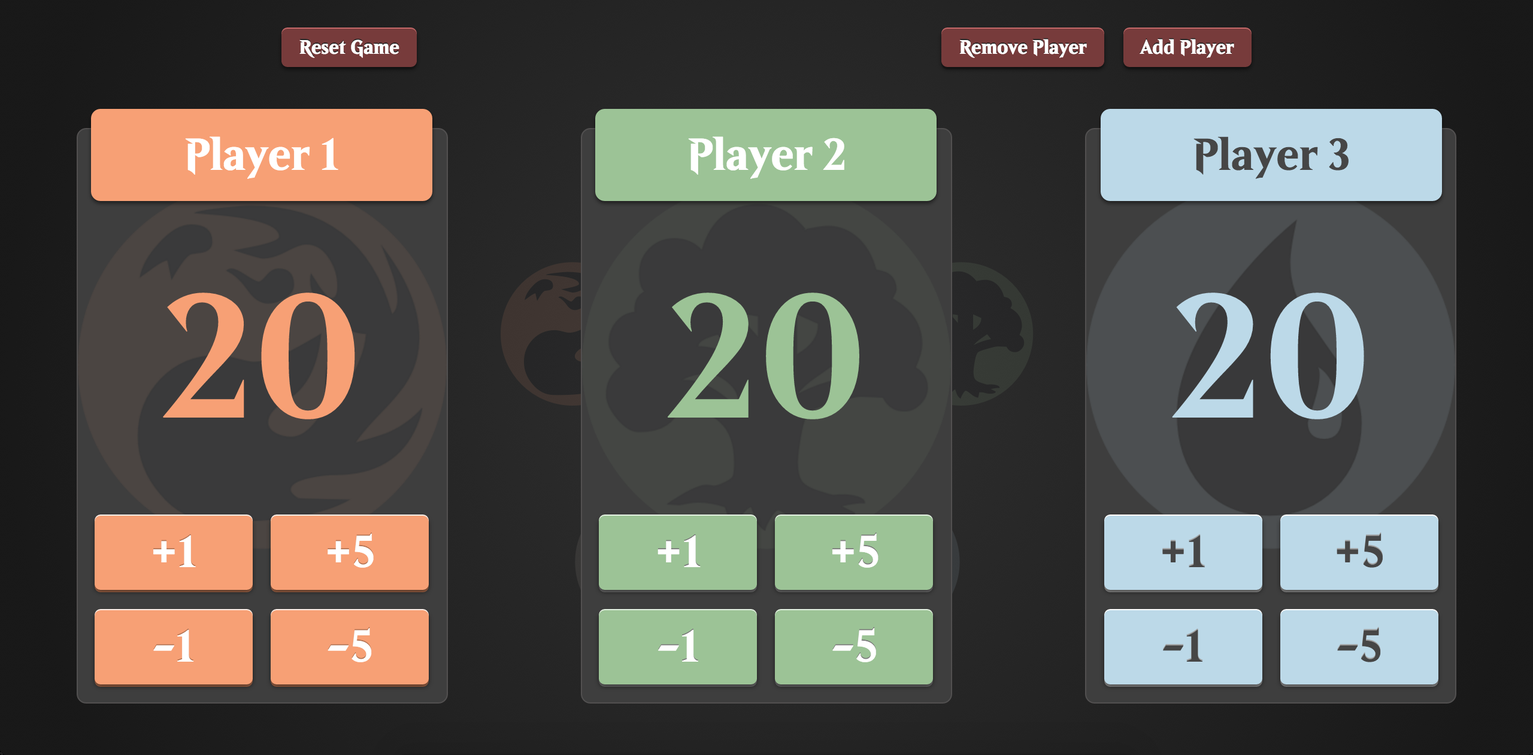
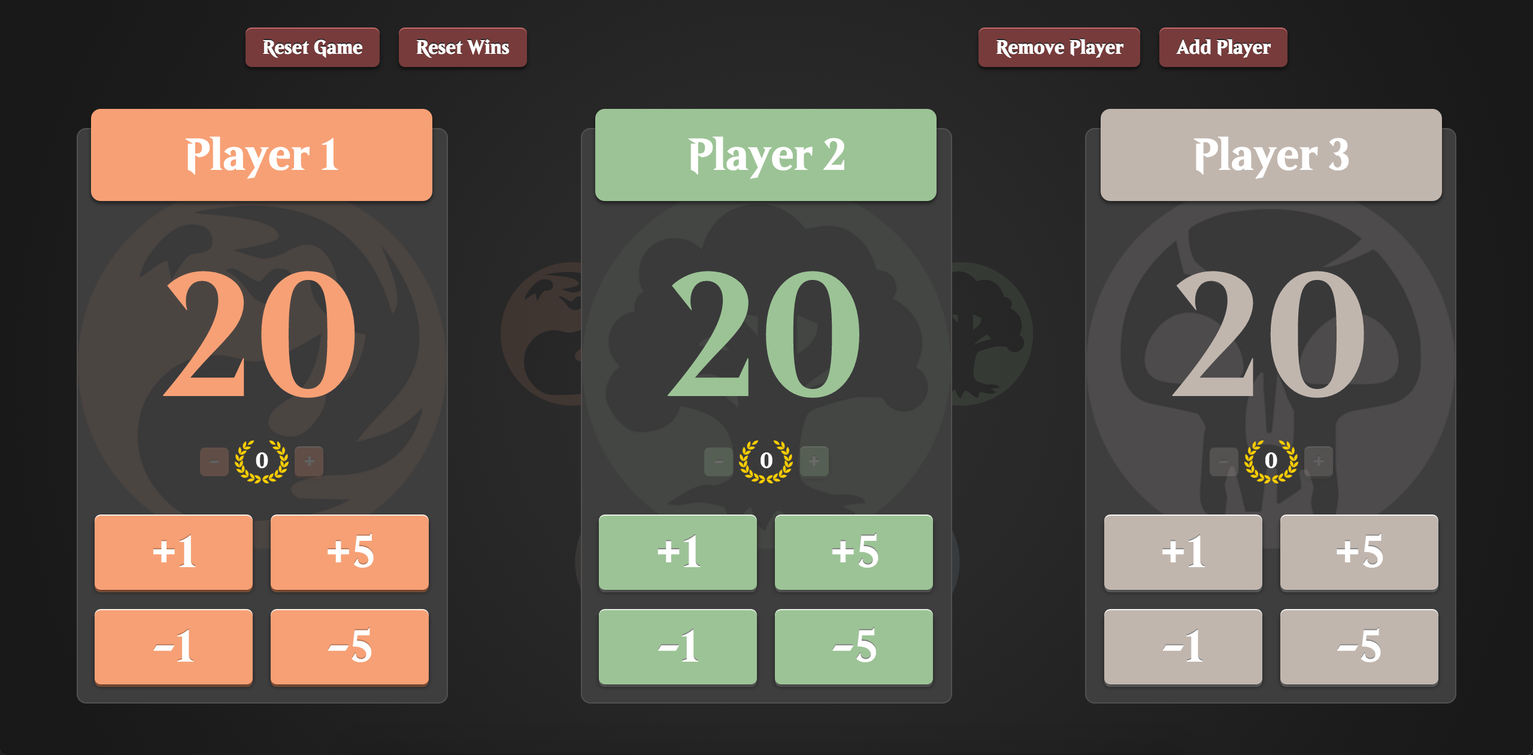
Add wins counter

diff --git a/build/js/app.js b/build/js/app.js
@@ -11838,19 +11838,21 @@ Elm.MTG.make = function (_elm) {
    function (v) {
       return v === null ? Elm.Maybe.make(_elm).Nothing : Elm.Maybe.make(_elm).Just(typeof v === "object" && "players" in v && "activePlayers" in v ? {_: {}
                                                                                                                                                      ,players: typeof v.players === "object" && v.players instanceof Array ? Elm.Native.List.make(_elm).fromArray(v.players.map(function (v) {
-                                                                                                                                                        return typeof v === "object" && "id" in v && "name" in v && "color" in v && "life" in v && "edit" in v && "nameEdit" in v ? {_: {}
-                                                                                                                                                                                                                                                                                    ,id: typeof v.id === "number" && isFinite(v.id) && Math.floor(v.id) === v.id ? v.id : _U.badPort("an integer",
-                                                                                                                                                                                                                                                                                    v.id)
-                                                                                                                                                                                                                                                                                    ,name: typeof v.name === "string" || typeof v.name === "object" && v.name instanceof String ? v.name : _U.badPort("a string",
-                                                                                                                                                                                                                                                                                    v.name)
-                                                                                                                                                                                                                                                                                    ,color: typeof v.color === "string" || typeof v.color === "object" && v.color instanceof String ? v.color : _U.badPort("a string",
-                                                                                                                                                                                                                                                                                    v.color)
-                                                                                                                                                                                                                                                                                    ,life: typeof v.life === "number" && isFinite(v.life) && Math.floor(v.life) === v.life ? v.life : _U.badPort("an integer",
-                                                                                                                                                                                                                                                                                    v.life)
-                                                                                                                                                                                                                                                                                    ,edit: typeof v.edit === "boolean" ? v.edit : _U.badPort("a boolean (true or false)",
-                                                                                                                                                                                                                                                                                    v.edit)
-                                                                                                                                                                                                                                                                                    ,nameEdit: typeof v.nameEdit === "string" || typeof v.nameEdit === "object" && v.nameEdit instanceof String ? v.nameEdit : _U.badPort("a string",
-                                                                                                                                                                                                                                                                                    v.nameEdit)} : _U.badPort("an object with fields `id`, `name`, `color`, `life`, `edit`, `nameEdit`",
+                                                                                                                                                        return typeof v === "object" && "id" in v && "name" in v && "color" in v && "life" in v && "edit" in v && "nameEdit" in v && "wins" in v ? {_: {}
+                                                                                                                                                                                                                                                                                                   ,id: typeof v.id === "number" && isFinite(v.id) && Math.floor(v.id) === v.id ? v.id : _U.badPort("an integer",
+                                                                                                                                                                                                                                                                                                   v.id)
+                                                                                                                                                                                                                                                                                                   ,name: typeof v.name === "string" || typeof v.name === "object" && v.name instanceof String ? v.name : _U.badPort("a string",
+                                                                                                                                                                                                                                                                                                   v.name)
+                                                                                                                                                                                                                                                                                                   ,color: typeof v.color === "string" || typeof v.color === "object" && v.color instanceof String ? v.color : _U.badPort("a string",
+                                                                                                                                                                                                                                                                                                   v.color)
+                                                                                                                                                                                                                                                                                                   ,life: typeof v.life === "number" && isFinite(v.life) && Math.floor(v.life) === v.life ? v.life : _U.badPort("an integer",
+                                                                                                                                                                                                                                                                                                   v.life)
+                                                                                                                                                                                                                                                                                                   ,edit: typeof v.edit === "boolean" ? v.edit : _U.badPort("a boolean (true or false)",
+                                                                                                                                                                                                                                                                                                   v.edit)
+                                                                                                                                                                                                                                                                                                   ,nameEdit: typeof v.nameEdit === "string" || typeof v.nameEdit === "object" && v.nameEdit instanceof String ? v.nameEdit : _U.badPort("a string",
+                                                                                                                                                                                                                                                                                                   v.nameEdit)
+                                                                                                                                                                                                                                                                                                   ,wins: typeof v.wins === "number" && isFinite(v.wins) && Math.floor(v.wins) === v.wins ? v.wins : _U.badPort("an integer",
+                                                                                                                                                                                                                                                                                                   v.wins)} : _U.badPort("an object with fields `id`, `name`, `color`, `life`, `edit`, `nameEdit`, `wins`",
                                                                                                                                                         v);
                                                                                                                                                      })) : _U.badPort("an array",
                                                                                                                                                      v.players)
@@ -11864,7 +11866,8 @@ Elm.MTG.make = function (_elm) {
              ,color: color
              ,life: 20
              ,edit: false
-             ,nameEdit: name};
+             ,nameEdit: name
+             ,wins: 0};
    });
    var initialModel = {players: _U.list([A3(newPlayer,
                                         1,
@@ -11924,6 +11927,14 @@ Elm.MTG.make = function (_elm) {
                                   },
                                   model.players)})
                                   ,_1: $Effects.none};
+         case "ResetWins": return {ctor: "_Tuple2"
+                                  ,_0: _U.update(model,
+                                  {players: A2($List.map,
+                                  function (player) {
+                                     return _U.update(player,{wins: 0});
+                                  },
+                                  model.players)})
+                                  ,_1: $Effects.none};
          case "IncreasePlayers": return _U.cmp(model.activePlayers,
            5) < 0 ? {ctor: "_Tuple2"
                     ,_0: _U.update(model,{activePlayers: model.activePlayers + 1})
@@ -11968,7 +11979,7 @@ Elm.MTG.make = function (_elm) {
                   ,_0: _U.update(model,
                   {players: A2($List.map,editPlayer,model.players)})
                   ,_1: $Effects.none};
-         default: var setName = function (player) {
+         case "SaveNameInput": var setName = function (player) {
               return _U.eq(player.id,_p3._0) && !_U.eq(player.nameEdit,
               "") ? _U.update(player,
               {name: player.nameEdit,edit: false}) : player;
@@ -11976,6 +11987,22 @@ Elm.MTG.make = function (_elm) {
            return {ctor: "_Tuple2"
                   ,_0: _U.update(model,
                   {players: A2($List.map,setName,model.players)})
+                  ,_1: $Effects.none};
+         case "IncreaseWins": var addWin = function (player) {
+              return _U.eq(player.id,_p3._0) ? _U.update(player,
+              {wins: player.wins + 1}) : player;
+           };
+           return {ctor: "_Tuple2"
+                  ,_0: _U.update(model,
+                  {players: A2($List.map,addWin,model.players)})
+                  ,_1: $Effects.none};
+         default: var removeWin = function (player) {
+              return _U.eq(player.id,_p3._0) && _U.cmp(player.wins,
+              0) > 0 ? _U.update(player,{wins: player.wins - 1}) : player;
+           };
+           return {ctor: "_Tuple2"
+                  ,_0: _U.update(model,
+                  {players: A2($List.map,removeWin,model.players)})
                   ,_1: $Effects.none};}
    });
    var is13 = function (code) {
@@ -11998,6 +12025,12 @@ Elm.MTG.make = function (_elm) {
          return A2($Signal.message,address,f(v));
       });
    });
+   var DecreaseWins = function (a) {
+      return {ctor: "DecreaseWins",_0: a};
+   };
+   var IncreaseWins = function (a) {
+      return {ctor: "IncreaseWins",_0: a};
+   };
    var SaveNameInput = function (a) {
       return {ctor: "SaveNameInput",_0: a};
    };
@@ -12053,6 +12086,20 @@ Elm.MTG.make = function (_elm) {
               _U.list([$Html$Attributes.$class("life")]),
               _U.list([$Html.text($Basics.toString(player.life))]))]))
               ,A2($Html.div,
+              _U.list([$Html$Attributes.$class("wins-container")]),
+              _U.list([A2($Html.button,
+                      _U.list([$Html$Attributes.$class("minus-win")
+                              ,A2($Html$Events.onClick,address,DecreaseWins(player.id))
+                              ,$Html$Attributes.disabled(_U.cmp(player.wins,1) < 0)]),
+                      _U.list([$Html.text("-")]))
+                      ,A2($Html.div,
+                      _U.list([$Html$Attributes.$class("wins")]),
+                      _U.list([$Html.text($Basics.toString(player.wins))]))
+                      ,A2($Html.button,
+                      _U.list([$Html$Attributes.$class("plus-win")
+                              ,A2($Html$Events.onClick,address,IncreaseWins(player.id))]),
+                      _U.list([$Html.text("+")]))]))
+              ,A2($Html.div,
               _U.list([$Html$Attributes.$class("options-container")]),
               _U.list([A2($Html.div,
                       _U.list([$Html$Attributes.$class("options-row")]),
@@ -12096,16 +12143,21 @@ Elm.MTG.make = function (_elm) {
    });
    var DecreasePlayers = {ctor: "DecreasePlayers"};
    var IncreasePlayers = {ctor: "IncreasePlayers"};
+   var ResetWins = {ctor: "ResetWins"};
    var ResetGame = {ctor: "ResetGame"};
    var gameOptionsContainer = F2(function (address,model) {
       return A2($Html.div,
       _U.list([$Html$Attributes.$class("game-options-container")]),
       _U.list([A2($Html.div,
-              _U.list([$Html$Attributes.$class("game-option")]),
+              _U.list([$Html$Attributes.$class("game-option option-group")]),
               _U.list([A2($Html.button,
-              _U.list([$Html$Attributes.$class("option-reset")
-                      ,A2($Html$Events.onClick,address,ResetGame)]),
-              _U.list([$Html.text("Reset Game")]))]))
+                      _U.list([$Html$Attributes.$class("option-reset-game")
+                              ,A2($Html$Events.onClick,address,ResetGame)]),
+                      _U.list([$Html.text("Reset Game")]))
+                      ,A2($Html.button,
+                      _U.list([$Html$Attributes.$class("option-reset-wins")
+                              ,A2($Html$Events.onClick,address,ResetWins)]),
+                      _U.list([$Html.text("Reset Wins")]))]))
               ,A2($Html.div,
               _U.list([$Html$Attributes.$class("game-option option-group")]),
               _U.list([A2($Html.button,
@@ -12139,7 +12191,8 @@ Elm.MTG.make = function (_elm) {
                        ,color: v.color
                        ,life: v.life
                        ,edit: v.edit
-                       ,nameEdit: v.nameEdit};
+                       ,nameEdit: v.nameEdit
+                       ,wins: v.wins};
              })
              ,activePlayers: v.activePlayers};
    },
@@ -12149,14 +12202,21 @@ Elm.MTG.make = function (_elm) {
    var Model = F2(function (a,b) {
       return {players: a,activePlayers: b};
    });
-   var Player = F6(function (a,b,c,d,e,f) {
-      return {id: a,name: b,color: c,life: d,edit: e,nameEdit: f};
+   var Player = F7(function (a,b,c,d,e,f,g) {
+      return {id: a
+             ,name: b
+             ,color: c
+             ,life: d
+             ,edit: e
+             ,nameEdit: f
+             ,wins: g};
    });
    return _elm.MTG.values = {_op: _op
                             ,Player: Player
                             ,Model: Model
                             ,NoOp: NoOp
                             ,ResetGame: ResetGame
+                            ,ResetWins: ResetWins
                             ,IncreasePlayers: IncreasePlayers
                             ,DecreasePlayers: DecreasePlayers
                             ,CyclePlayerColor: CyclePlayerColor
@@ -12164,6 +12224,8 @@ Elm.MTG.make = function (_elm) {
                             ,EnableNameInput: EnableNameInput
                             ,UpdateNameInput: UpdateNameInput
                             ,SaveNameInput: SaveNameInput
+                            ,IncreaseWins: IncreaseWins
+                            ,DecreaseWins: DecreaseWins
                             ,onInput: onInput
                             ,onEnter: onEnter
                             ,is13: is13
@@ -12171,10 +12233,10 @@ Elm.MTG.make = function (_elm) {
                             ,newPlayer: newPlayer
                             ,initialModel: initialModel
                             ,update: update
+                            ,gameOptionsContainer: gameOptionsContainer
                             ,nameContainer: nameContainer
                             ,playerBox: playerBox
                             ,playersContainer: playersContainer
-                            ,gameOptionsContainer: gameOptionsContainer
                             ,view: view
                             ,loadModel: loadModel
                             ,init: init

diff --git a/build/css/styles.css b/build/css/styles.css
@@ -172,6 +172,14 @@ main, #app { height: 100%; }
 
 .players-container .player .life-container .life { font-size: 147px; text-align: center; }
 
+.players-container .player .wins-container { display: -webkit-box; display: -webkit-flex; display: -ms-flexbox; display: flex; -webkit-box-pack: center; -webkit-justify-content: center; -ms-flex-pack: center; justify-content: center; -webkit-box-align: center; -webkit-align-items: center; -ms-flex-align: center; align-items: center; padding-bottom: 1em; position: relative; top: -1em; -moz-user-select: none; -ms-user-select: none; -webkit-user-select: none; user-select: none; }
+
+.players-container .player .wins-container .wins { background: url("../images/laurel-wreath.png") no-repeat center; background-size: cover; width: 45px; height: 36px; margin-left: 0.3em; margin-right: 0.3em; line-height: 35px; color: #FFF; text-align: center; font-size: 1.1em; }
+
+.players-container .player .wins-container button { background: rgba(0, 0, 0, 0.18); border: 0; outline: 0; width: 1.5em; height: 1.5em; border-radius: 4px; }
+
+.players-container .player .wins-container button:hover { opacity: 1; }
+
 .players-container .player .options-container .options-row { display: -webkit-box; display: -webkit-flex; display: -ms-flexbox; display: flex; -webkit-box-pack: center; -webkit-justify-content: center; -ms-flex-pack: center; justify-content: center; margin-bottom: 17px; }
 
 .players-container .player .options-container .options-row:last-child { margin-bottom: 15px; }
@@ -188,6 +196,12 @@ main, #app { height: 100%; }
 
 .players-container .player.red .life-container { color: #f7a075; }
 
+.players-container .player.red .wins-container button { background-color: #f7a075; text-shadow: 0 -1px #b37353; box-shadow: 0 -1px #ffefe8, 0 2px 4px rgba(0, 0, 0, 0.5), 0 2px #ac6b4b; }
+
+.players-container .player.red .wins-container button:active { box-shadow: none; position: relative; top: 2px; }
+
+.players-container .player.red .wins-container button:disabled, .players-container .player.red .wins-container button:disabled:hover { box-shadow: none; opacity: 0.2; }
+
 .players-container .player.red .options-container .option button { background-color: #f7a075; text-shadow: 0 -1px #b37353; box-shadow: 0 -1px #ffefe8, 0 2px 4px rgba(0, 0, 0, 0.5), 0 2px #ac6b4b; -moz-user-select: none; -ms-user-select: none; -webkit-user-select: none; user-select: none; }
 
 .players-container .player.red .options-container .option button:active { box-shadow: none; position: relative; top: 2px; }
@@ -197,6 +211,12 @@ main, #app { height: 100%; }
 .players-container .player.green .name-container { background-color: #9cc396; }
 
 .players-container .player.green .life-container { color: #9cc396; }
+
+.players-container .player.green .wins-container button { background-color: #9cc396; text-shadow: 0 -1px #7a7a7a; box-shadow: 0 -1px #e4f2e2, 0 2px 4px rgba(0, 0, 0, 0.5), 0 2px #727272; }
+
+.players-container .player.green .wins-container button:active { box-shadow: none; position: relative; top: 2px; }
+
+.players-container .player.green .wins-container button:disabled, .players-container .player.green .wins-container button:disabled:hover { box-shadow: none; opacity: 0.2; }
 
 .players-container .player.green .options-container .option button { background-color: #9cc396; text-shadow: 0 -1px #7a7a7a; box-shadow: 0 -1px #e4f2e2, 0 2px 4px rgba(0, 0, 0, 0.5), 0 2px #727272; -moz-user-select: none; -ms-user-select: none; -webkit-user-select: none; user-select: none; }
 
@@ -208,6 +228,12 @@ main, #app { height: 100%; }
 
 .players-container .player.blue .life-container { color: #bcd9e8; }
 
+.players-container .player.blue .wins-container button { background-color: #bcd9e8; text-shadow: 0 -1px #9f9f9f; box-shadow: 0 -1px white, 0 2px 4px rgba(0, 0, 0, 0.5), 0 2px #979797; }
+
+.players-container .player.blue .wins-container button:active { box-shadow: none; position: relative; top: 2px; }
+
+.players-container .player.blue .wins-container button:disabled, .players-container .player.blue .wins-container button:disabled:hover { box-shadow: none; opacity: 0.2; }
+
 .players-container .player.blue .options-container .option button { background-color: #bcd9e8; text-shadow: 0 -1px #9f9f9f; box-shadow: 0 -1px white, 0 2px 4px rgba(0, 0, 0, 0.5), 0 2px #979797; -moz-user-select: none; -ms-user-select: none; -webkit-user-select: none; user-select: none; }
 
 .players-container .player.blue .options-container .option button:active { box-shadow: none; position: relative; top: 2px; }
@@ -218,6 +244,12 @@ main, #app { height: 100%; }
 
 .players-container .player.black .life-container { color: #c1b6ae; }
 
+.players-container .player.black .wins-container button { background-color: #c1b6ae; text-shadow: 0 -1px #858585; box-shadow: 0 -1px #f7f4f2, 0 2px 4px rgba(0, 0, 0, 0.5), 0 2px #7d7d7d; }
+
+.players-container .player.black .wins-container button:active { box-shadow: none; position: relative; top: 2px; }
+
+.players-container .player.black .wins-container button:disabled, .players-container .player.black .wins-container button:disabled:hover { box-shadow: none; opacity: 0.2; }
+
 .players-container .player.black .options-container .option button { background-color: #c1b6ae; text-shadow: 0 -1px #858585; box-shadow: 0 -1px #f7f4f2, 0 2px 4px rgba(0, 0, 0, 0.5), 0 2px #7d7d7d; -moz-user-select: none; -ms-user-select: none; -webkit-user-select: none; user-select: none; }
 
 .players-container .player.black .options-container .option button:active { box-shadow: none; position: relative; top: 2px; }
@@ -227,6 +259,12 @@ main, #app { height: 100%; }
 .players-container .player.white .name-container { background-color: #f7f5d9; }
 
 .players-container .player.white .life-container { color: #f7f5d9; }
+
+.players-container .player.white .wins-container button { background-color: #f7f5d9; text-shadow: 0 -1px #c0bfaa; box-shadow: 0 -1px white, 0 2px 4px rgba(0, 0, 0, 0.5), 0 2px #bab8a1; }
+
+.players-container .player.white .wins-container button:active { box-shadow: none; position: relative; top: 2px; }
+
+.players-container .player.white .wins-container button:disabled, .players-container .player.white .wins-container button:disabled:hover { box-shadow: none; opacity: 0.2; }
 
 .players-container .player.white .options-container .option button { background-color: #f7f5d9; text-shadow: 0 -1px #c0bfaa; box-shadow: 0 -1px white, 0 2px 4px rgba(0, 0, 0, 0.5), 0 2px #bab8a1; -moz-user-select: none; -ms-user-select: none; -webkit-user-select: none; user-select: none; }
 

diff --git a/src/scss/_app.scss b/src/scss/_app.scss
@@ -53,6 +53,17 @@ main, #app {
       color: $color;
     }
 
+    .wins-container {
+      button {
+        @include button-3d($color);
+
+        &:disabled, &:disabled:hover {
+          box-shadow: none;
+          opacity: 0.2;
+        }
+      }
+    }
+
     .options-container {
       .option {
         button {
@@ -226,7 +237,44 @@ main, #app {
       .life {
         font-size: 147px;
         text-align: center;
-      } 
+      }
+    }
+
+    .wins-container {
+      display: flex;
+      justify-content: center;
+      align-items: center;
+      padding-bottom: 1em;
+      position: relative;
+      top: -1em;
+
+      @include no-text-selection();
+
+      .wins {
+        background: url('../images/laurel-wreath.png') no-repeat center;
+        background-size: cover;
+        width: 45px;
+        height: 36px;
+        margin-left: 0.3em;
+        margin-right: 0.3em;
+        line-height: 35px;
+        color: #FFF;
+        text-align: center;
+        font-size: 1.1em;
+      }
+
+      button {
+        background: rgba(0, 0, 0, 0.18);
+        border: 0;
+        outline: 0;
+        width: 1.5em;
+        height: 1.5em;
+        border-radius: 4px;
+
+        &:hover {
+          opacity: 1;
+        }
+      }
     }
 
     .options-container {

diff --git a/build/index.html b/build/index.html
@@ -59,6 +59,13 @@
 		var storedState = localStorage.getItem('mtg-state');
 		var startingState = storedState ? JSON.parse(storedState) : null;
 
+		if (startingState !== null && startingState.players[0].wins == undefined) {
+			startingState.players = startingState.players.map(function(el) {
+				el.wins = 0;
+				return el;
+			});
+		}
+
 		// Initialize app
 		var app = document.getElementById('app');
 		var mtg = Elm.embed(Elm.MTG, app, {getStorage: startingState});

diff --git a/README.md b/README.md
@@ -13,7 +13,7 @@ A web app to keep track of your Magic: The Gathering games.
 ### Features
 
 * Add up to 5 players
-* Keep track of your life points
+* Track players life and wins
 * Change the name and color of the players
 * Uses local storage to save the game between sessions
 
